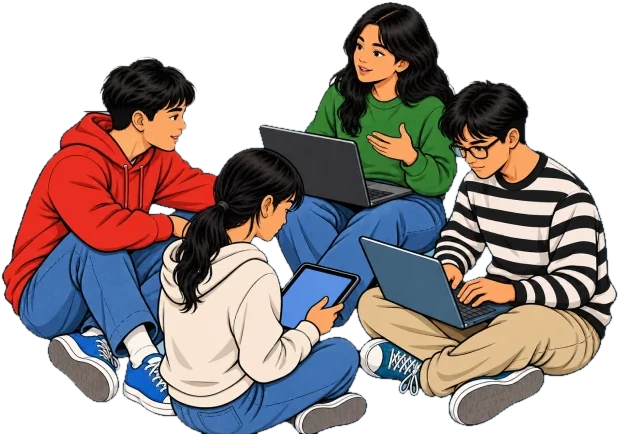
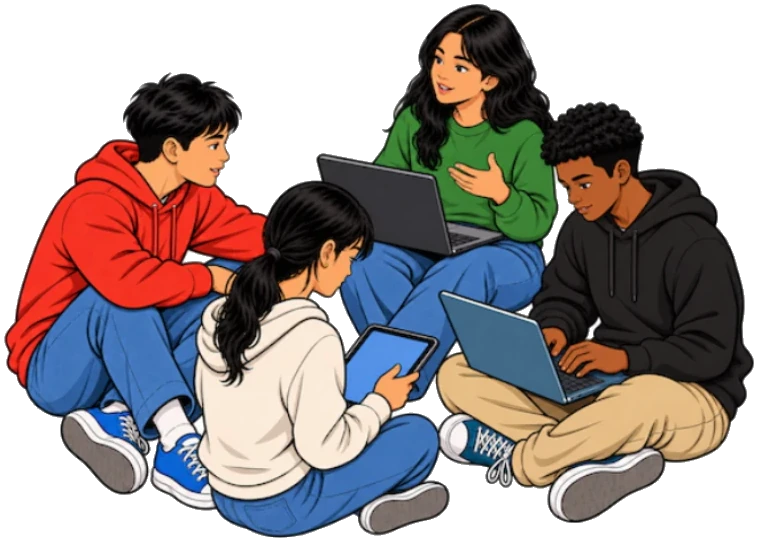
Landing: the people under the hero are the website's own drawing
The signed-out landing's people picture was a stand-in cut from a
mock-up, 619px wide and soft on a 2x screen. It is now the four people of
the website's share picture, cut from a copy on white and 758px wide for
a place drawn at up to 380px. Same file name; the img's width and height
follow the new file, and the brand README records where it came from.

Changed region(s): [[0.0, 0.0, 1.0, 1.0], [0.2763, 0.1498, 0.3069, 0.1797], [0.2149, 0.1198, 0.2456, 0.1498]]

diff --git a/frontend/src/features/auth/story.tsx b/frontend/src/features/auth/story.tsx
@@ -360,8 +360,8 @@ export function Story({ primaryClass, welcomeEmail = null, onStart, onSignIn, co
             <img
               src="/brand/landing-people.webp"
               alt=""
-              width={619}
-              height={434}
+              width={758}
+              height={542}
               draggable={false}
               className="h-auto w-[280px] max-w-full shrink-0 lg:w-[380px]"
             />

diff --git a/public/brand/README.md b/public/brand/README.md
@@ -41,7 +41,7 @@ fixed color, not the scalable source the app UI uses.
 | `homeroom-logo-black.png` | n/a — no Figma export | n/a | hand-encoded: a 5×7 bitmap "HOMEROOM" wordmark rasterized to `zinc-900` (`#1c1c1e`) on a transparent RGBA background, then wrapped in a minimal PNG (`IHDR`/`IDAT`/`IEND`) using only Node's built-in `zlib.deflateSync` — see the one-off generator note in the git history for #2673, since the repo has no `sharp`/`canvas`/ImageMagick to export from | 294 × 54, 8-bit RGBA PNG | 451 B |
 | `sky.webp` | n/a — no Figma export | n/a | the cloud image the Homeroom website (onhomeroom.com) draws behind its own hero, downloaded as the site serves it (PNG), resized to 1920 px wide, cropped to the middle 1080 rows and encoded with Pillow (`quality=74, method=6`), a one-off local step whose output is committed | 1920 × 1080, lossy WebP | 54.3 KB |
 | `landing-communities.webp` | n/a — STAND-IN, cut from a mock-up | n/a | cropped from the hero mock-up Drea shared in the landing change's discussion (17 Nov 2026), its white ground flood-filled to transparent from the edges, encoded with Pillow (`quality=88, method=6`). Replace with an export of the drawing itself when there is one | 1060 × 656, lossy WebP with alpha | 82.7 KB |
-| `landing-people.webp` | n/a — STAND-IN, cut from a mock-up | n/a | cropped from the same mock-up; the white window and the sky behind the figures removed by colour (flood fill from the edges, plus the sky enclosed between the figures), the window's edge line erased, the alpha edge softened by 0.7 px; Pillow (`quality=90, method=6`). Replace with an export of the drawing itself when there is one | 619 × 434, lossy WebP with alpha | 68.4 KB |
+| `landing-people.webp` | n/a — cut from the picture the website shares | n/a | the four people of the Homeroom website's share picture (onhomeroom.com's `og:image`: red hoodie, green jumper, cream hoodie, black hoodie), from a 976 × 604 copy on white supplied by the product owner (23 Nov 2026); the white ground removed by a flood fill from the edges plus the eight white gaps enclosed between the figures, the two pixels beside the cut un-mixed from white so no pale rim shows on the dark landing; cropped to the figures and encoded with ffmpeg's libwebp (`-q:v 90 -compression_level 6`, `yuva420p`). Replace with an export of the drawing itself, on a transparent ground, when there is one | 758 × 542, lossy WebP with alpha | 63.7 KB |
 
 There is no `sha384` column, and the omission is deliberate rather than an
 oversight. `public/vendor/README.md` records a digest per file because each of
@@ -93,8 +93,8 @@ recorded.
 - **landing-communities.webp** — the picture of the communities page beside
   the landing hero's words, from 1024px. Decorative, empty `alt`.
 - **landing-people.webp** — the people on the bottom edge of the landing
-  hero's window, from 768px. Decorative, empty `alt`. It is drawn at up to 400px wide, so it is
-  soft on a 2× screen: the mock-up it was cut from had no more pixels.
+  hero's window, from 768px. Decorative, empty `alt`. It is drawn at up to 380px wide, and the
+  file is 758px wide, so it is sharp on a 2× screen.
 - **homeroom-logotype-black.png** — the logo at the top of every
   transactional email (#2908), referenced by the standard email layout's first
   version (`src/db/email-template-seeds.js`) as an absolute
